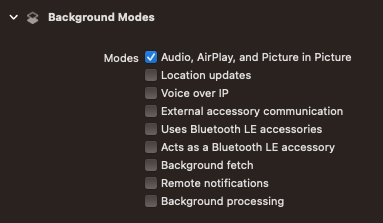
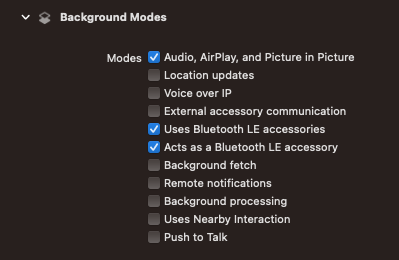
Updated BluetoothMIDI example projects to log received events

Changed region(s): [[0.2585, 0.1883, 0.9191, 0.9417], [0.0287, 0.0269, 0.4308, 0.1076]]

diff --git a/Examples/iOS UIKit/BluetoothMIDI/BluetoothMIDI/AppDelegate.swift b/Examples/iOS UIKit/BluetoothMIDI/BluetoothMIDI/AppDelegate.swift
@@ -5,17 +5,47 @@
 //
 
 import UIKit
+import MIDIKit
 
 @main
 class AppDelegate: UIResponder, UIApplicationDelegate {
-    
     var window: UIWindow?
     
-    func application(_ application: UIApplication,
-                     didFinishLaunchingWithOptions launchOptions: [UIApplication.LaunchOptionsKey: Any]?) -> Bool {
+    let midiManager = MIDI.IO.Manager(
+        clientName: "TestAppMIDIManager",
+        model: "TestApp",
+        manufacturer: "MyCompany"
+    )
+    
+    func application(
+        _ application: UIApplication,
+        didFinishLaunchingWithOptions launchOptions: [UIApplication.LaunchOptionsKey: Any]?
+    ) -> Bool {
+        do {
+            print("Starting MIDI services.")
+            try midiManager.start()
+        } catch {
+            print("Error starting MIDI services:", error.localizedDescription)
+        }
+        
+        // set up a listener that automatically connects to all MIDI outputs
+        // and prints the events to the console
+        
+        do {
+            try midiManager.addInputConnection(
+                toOutputs: [], // no need to specify if we're using .allEndpoints
+                tag: "Listener",
+                mode: .allEndpoints, // auto-connect to all outputs that may appear
+                filter: .owned(), // don't allow self-created virtual
+                receiveHandler: .eventsLogging(filterActiveSensingAndClock: false)
+            )
+        } catch {
+            print(
+                "Error setting up managed MIDI all-listener connection:",
+                error.localizedDescription
+            )
+        }
         
         return true
-        
     }
-    
 }

diff --git a/Examples/iOS SwiftUI/BluetoothMIDI/BluetoothMIDI/BluetoothMIDIApp.swift b/Examples/iOS SwiftUI/BluetoothMIDI/BluetoothMIDI/BluetoothMIDIApp.swift
@@ -5,16 +5,46 @@
 //
 
 import SwiftUI
+import MIDIKit
 
 @main
 struct BluetoothMIDIApp: App {
+    let midiManager = MIDI.IO.Manager(
+        clientName: "TestAppMIDIManager",
+        model: "TestApp",
+        manufacturer: "MyCompany"
+    )
+    
+    init() {
+        do {
+            print("Starting MIDI services.")
+            try midiManager.start()
+        } catch {
+            print("Error starting MIDI services:", error.localizedDescription)
+        }
+        
+        // set up a listener that automatically connects to all MIDI outputs
+        // and prints the events to the console
+        
+        do {
+            try midiManager.addInputConnection(
+                toOutputs: [], // no need to specify if we're using .allEndpoints
+                tag: "Listener",
+                mode: .allEndpoints, // auto-connect to all outputs that may appear
+                filter: .owned(), // don't allow self-created virtual
+                receiveHandler: .eventsLogging(filterActiveSensingAndClock: false)
+            )
+        } catch {
+            print(
+                "Error setting up managed MIDI all-listener connection:",
+                error.localizedDescription
+            )
+        }
+    }
     
     var body: some Scene {
-        
         WindowGroup {
             ContentView()
         }
-        
     }
-    
 }

diff --git a/Examples/iOS SwiftUI/BluetoothMIDI/BluetoothMIDI/ContentView.swift b/Examples/iOS SwiftUI/BluetoothMIDI/BluetoothMIDI/ContentView.swift
@@ -7,28 +7,26 @@
 import SwiftUI
 
 struct ContentView: View {
-    
     @State var showingBluetoothMIDIOptions = false
     
     var body: some View {
-        
         VStack(alignment: .center, spacing: 20) {
-            Text("This example demonstrates configuring Bluetooth MIDI on iOS.")
-                .font(.system(size: 14))
-                .lineLimit(4)
-                .multilineTextAlignment(.center)
+            Text("This example demonstrates connecting to Bluetooth MIDI devices on iOS and receiving events.")
+            
+            Text("Events received from all MIDI output endpoints are automatically logged to the console.")
             
             Button("Show Bluetooth MIDI Setup") {
                 showingBluetoothMIDIOptions = true
             }
         }
         .frame(maxWidth: .infinity, maxHeight: .infinity, alignment: .center)
+        .font(.system(size: 14))
+        .lineLimit(4)
+        .multilineTextAlignment(.center)
         .padding()
         
         .sheet(isPresented: $showingBluetoothMIDIOptions) {
             BluetoothMIDIView()
         }
-        
     }
-    
 }

diff --git a/Examples/iOS SwiftUI/BluetoothMIDI/BluetoothMIDI/BluetoothMIDIView.swift b/Examples/iOS SwiftUI/BluetoothMIDI/BluetoothMIDI/BluetoothMIDIView.swift
@@ -15,9 +15,10 @@ struct BluetoothMIDIView: UIViewControllerRepresentable {
         BTMIDICentralViewController()
     }
     
-    func updateUIViewController(_ uiViewController: BTMIDICentralViewController, context: Context) {
-        
-    }
+    func updateUIViewController(
+        _ uiViewController: BTMIDICentralViewController,
+        context: Context
+    ) { }
     
     typealias UIViewControllerType = BTMIDICentralViewController
 }
@@ -25,7 +26,7 @@ struct BluetoothMIDIView: UIViewControllerRepresentable {
 class BTMIDICentralViewController: CABTMIDICentralViewController {
     var uiViewController: UIViewController?
     
-    public override func viewDidLayoutSubviews() {
+    override public func viewDidLayoutSubviews() {
         super.viewDidLayoutSubviews()
         
         navigationItem.rightBarButtonItem = UIBarButtonItem(
@@ -35,7 +36,8 @@ class BTMIDICentralViewController: CABTMIDICentralViewController {
         )
     }
     
-    @objc public func doneAction() {
+    @objc
+    public func doneAction() {
         uiViewController?.dismiss(animated: true, completion: nil)
     }
 }

diff --git a/Examples/iOS UIKit/BluetoothMIDI/BluetoothMIDI/BTMIDICentralViewController.swift b/Examples/iOS UIKit/BluetoothMIDI/BluetoothMIDI/BTMIDICentralViewController.swift
@@ -12,7 +12,7 @@ import CoreAudioKit
 class BTMIDICentralViewController: CABTMIDICentralViewController {
     var uiViewController: UIViewController?
     
-    public override func viewDidLayoutSubviews() {
+    override public func viewDidLayoutSubviews() {
         super.viewDidLayoutSubviews()
         
         navigationItem.rightBarButtonItem = UIBarButtonItem(
@@ -22,7 +22,8 @@ class BTMIDICentralViewController: CABTMIDICentralViewController {
         )
     }
     
-    @objc public func doneAction() {
+    @objc
+    public func doneAction() {
         uiViewController?.dismiss(animated: true, completion: nil)
     }
 }

diff --git a/Examples/iOS UIKit/BluetoothMIDI/BluetoothMIDI/ViewController.swift b/Examples/iOS UIKit/BluetoothMIDI/BluetoothMIDI/ViewController.swift
@@ -7,13 +7,10 @@
 import UIKit
 
 class ViewController: UIViewController {
-    
-    @IBAction func showBluetoothMIDISetup(_ sender: Any) {
-        
+    @IBAction
+    func showBluetoothMIDISetup(_ sender: Any) {
         let sheetViewController = BTMIDICentralViewController(nibName: nil, bundle: nil)
         
         present(sheetViewController, animated: true, completion: nil)
-        
     }
-    
 }

diff --git a/Examples/iOS SwiftUI/BluetoothMIDI/README.md b/Examples/iOS SwiftUI/BluetoothMIDI/README.md
@@ -1,6 +1,8 @@
 # BluetoothMIDI Example (iOS SwiftUI)
 
-This example demonstrates configuring Bluetooth MIDI connections in order to send and receive MIDI.
+This example demonstrates connecting to Bluetooth MIDI devices on iOS and receiving events.
+
+Events received from all MIDI output endpoints are automatically logged to the console.
 
 ## Build Note
 
@@ -13,9 +15,18 @@ This example demonstrates configuring Bluetooth MIDI connections in order to sen
 ## App Target Entitlements
 
 - Even though Bluetooth MIDI largely operates via Core MIDI, you still need to give your app appropriate entitlements.
-- Add the **Background Modes** entitlement and enable the **Audio, AirPlay and Picture in Picture** mode.
+- Add the **Background Modes** entitlement and enable:
+  - [x] Audio, AirPlay and Picture in Picture
+  - [x] Uses Bluetooth LE accessories
+  - [x] Acts as a Bluetooth LE accessory
 
-![Background Modes](/Users/stef/Dropbox/coding/MIDIKit/Examples/iOS UIKit/BluetoothMIDI/Images/background-modes-audio.png)
+
+![Background Modes](Images/background-modes-audio.png)
+
+## Info.plist Keys
+
+- The following key is required in the info.plist file with a string containing a reason for allowing your app access to bluetooth connectivity.
+  - `NSBluetoothAlwaysUsageDescription`
 
 ## Operation
 

diff --git a/Examples/iOS UIKit/BluetoothMIDI/README.md b/Examples/iOS UIKit/BluetoothMIDI/README.md
@@ -1,6 +1,8 @@
 # BluetoothMIDI Example (iOS UIKit)
 
-This example demonstrates configuring Bluetooth MIDI connections in order to send and receive MIDI.
+This example demonstrates connecting to Bluetooth MIDI devices on iOS and receiving events.
+
+Events received from all MIDI output endpoints are automatically logged to the console.
 
 ## Build Note
 
@@ -13,9 +15,17 @@ This example demonstrates configuring Bluetooth MIDI connections in order to sen
 ## App Target Entitlements
 
 - Even though Bluetooth MIDI largely operates via Core MIDI, you still need to give your app appropriate entitlements.
-- Add the **Background Modes** entitlement and enable the **Audio, AirPlay and Picture in Picture** mode.
+- Add the **Background Modes** entitlement and enable:
+  - [x] Audio, AirPlay and Picture in Picture
+  - [x] Uses Bluetooth LE accessories
+  - [x] Acts as a Bluetooth LE accessory
 
 ![Background Modes](Images/background-modes-audio.png)
+
+## Info.plist Keys
+
+- The following key is required in the info.plist file with a string containing a reason for allowing your app access to bluetooth connectivity.
+  - `NSBluetoothAlwaysUsageDescription`
 
 ## Operation
 
